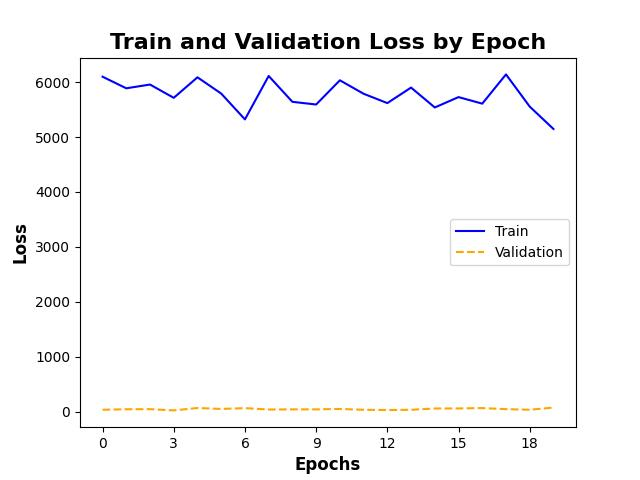
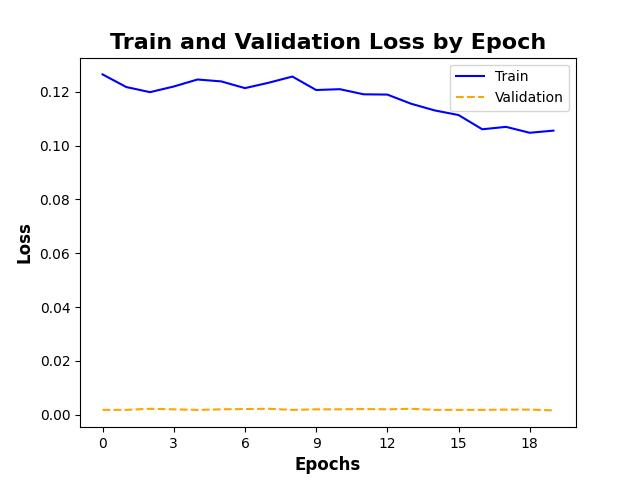
Normalized depth values

diff --git a/models/mvsnet.py b/models/mvsnet.py
@@ -8,9 +8,9 @@ from .layers.soft_argmin import SoftArgmin
 from .layers.refinement import Refine
 
 class MVSNet(torch.nn.Module):
-   def __init__(self, depth_start, depth_end, depth_step):
+   def __init__(self, n_depths):
       super().__init__()
-      self.depths = torch.arange(depth_start, depth_end, depth_step)
+      self.depths = torch.arange(0, 1.0001, 1 / n_depths)
       self.feature_extractor = ImageEncoder()
       self.homography = Homography(depths=self.depths)
       self.variance = VarianceLayer()

diff --git a/train.py b/train.py
@@ -20,7 +20,7 @@ def main(data_path: str, subset: float, context_size: int, batch_size: int, mode
    if model == 'cnn':
       model = ResNet6().to(DEVICE)
    elif model == 'mvsnet':
-      model = MVSNet(0, 1, 0.2).to(DEVICE)
+      model = MVSNet(20).to(DEVICE)
    else:
       error_msg = f"Model {model} is not a valid model name"
       raise ValueError(error_msg)

diff --git a/dataloaders/blendedMVS.py b/dataloaders/blendedMVS.py
@@ -76,6 +76,7 @@ class BlendedMVS(Dataset):
       depth_map_to_tensor = T.Compose([
          T.Lambda(lambda x: torch.tensor(x, dtype=torch.float)),
          T.Resize((self.target_h, self.target_w), interpolation=Image.BILINEAR),
+         T.Lambda(lambda x: x / x.max()),
       ])
 
 
